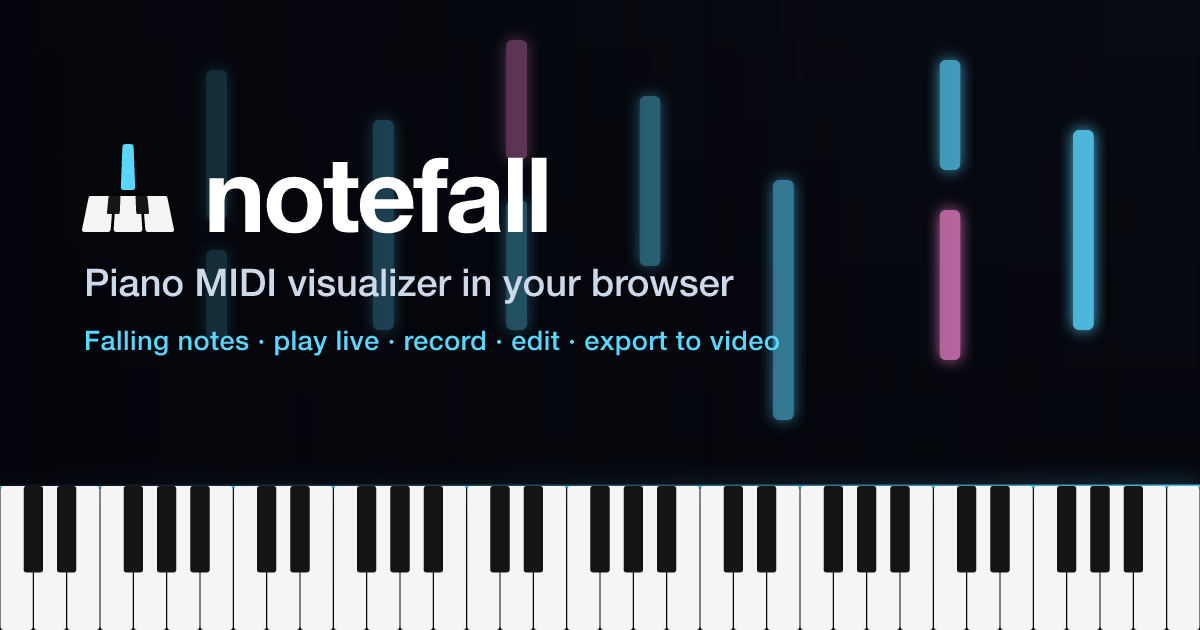
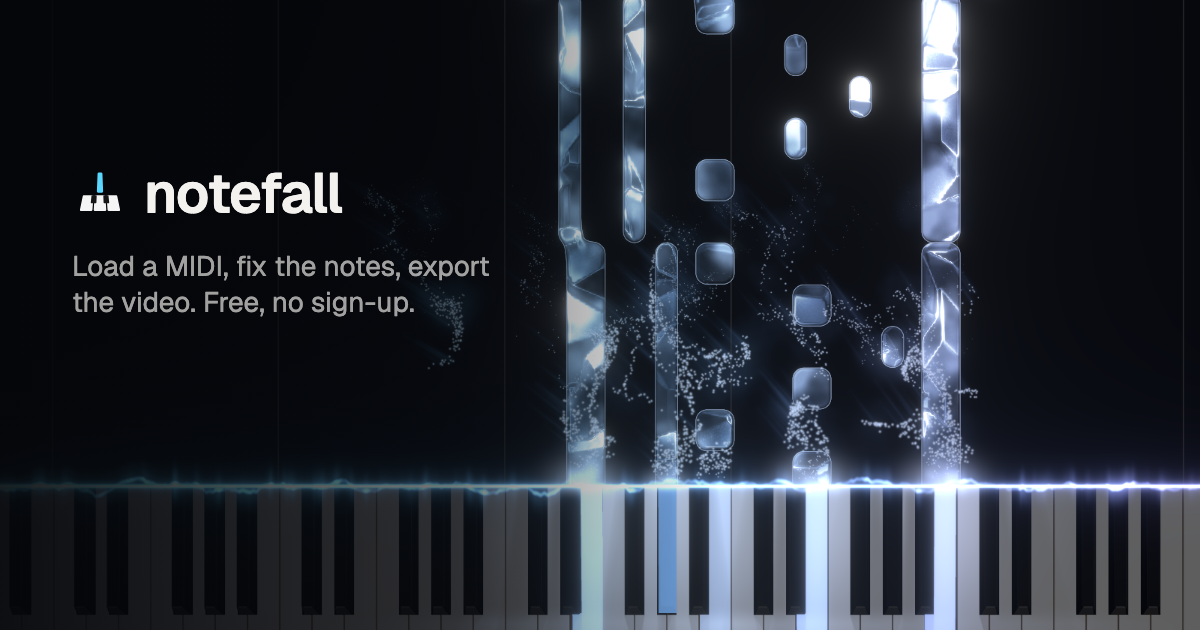
feat: new OGP image and copy, sharper blue backdrop for the fallback screens, chrome steps aside while tuning in Customize

diff --git a/index.html b/index.html
@@ -9,7 +9,7 @@
     <title>notefall — Piano MIDI Visualizer in Your Browser</title>
     <meta
       name="description"
-      content="A free browser-based piano visualizer. Watch MIDI notes fall onto a 3D 88-key keyboard, play live, record, edit on the canvas, and export to video. All client-side — nothing is uploaded."
+      content="A free browser-based piano visualizer. Load a MIDI, fix the notes right on the falling-notes view, and export a piano video. Play live or record from a MIDI keyboard. Free, no sign-up, and your files never leave your browser."
     />
     <meta
       name="keywords"
@@ -25,7 +25,7 @@
     <meta property="og:title" content="notefall — Piano MIDI Visualizer in Your Browser" />
     <meta
       property="og:description"
-      content="Watch MIDI notes fall onto a 3D 88-key keyboard, play live, record, edit on the canvas, and export to video. All client-side — nothing is uploaded."
+      content="Load a MIDI, fix the notes right on the falling-notes view, and export a piano video. Play live or record from a MIDI keyboard. Free, no sign-up, and your files never leave your browser."
     />
     <meta property="og:url" content="https://notefall.app/" />
     <meta property="og:image" content="https://notefall.app/og-image.png" />
@@ -33,7 +33,7 @@
     <meta property="og:image:height" content="630" />
     <meta
       property="og:image:alt"
-      content="notefall — cyan MIDI notes falling onto an 88-key piano keyboard"
+      content="notefall: glassy blue notes falling onto a piano keyboard, with the line “Load a MIDI, fix the notes, export the video. Free, no sign-up.”"
     />
     <meta property="og:locale" content="en_US" />
     <meta property="og:locale:alternate" content="ja_JP" />
@@ -43,12 +43,12 @@
     <meta name="twitter:title" content="notefall — Piano MIDI Visualizer in Your Browser" />
     <meta
       name="twitter:description"
-      content="Watch MIDI notes fall onto a 3D 88-key keyboard, play live, record, edit on the canvas, and export to video. All client-side."
+      content="Load a MIDI, fix the notes right on the falling-notes view, and export a piano video. Play live or record from a MIDI keyboard. Free, no sign-up, and your files never leave your browser."
     />
     <meta name="twitter:image" content="https://notefall.app/og-image.png" />
     <meta
       name="twitter:image:alt"
-      content="notefall — cyan MIDI notes falling onto an 88-key piano keyboard"
+      content="notefall: glassy blue notes falling onto a piano keyboard, with the line “Load a MIDI, fix the notes, export the video. Free, no sign-up.”"
     />
 
     <!-- Structured data -->

diff --git a/src/ui/shell/idle.ts b/src/ui/shell/idle.ts
@@ -13,6 +13,9 @@ type IdleState = {
   hidden: boolean
   /** Reasons to stay visible (an open popover, a menu). Set/clear by key. */
   holds: ReadonlySet<string>
+  /** The pointer is over the Customize panel: the chrome steps aside so the picture can be judged. */
+  overPanel: boolean
+  setOverPanel: (v: boolean) => void
   setHidden: (v: boolean) => void
   hold: (key: string, on: boolean) => void
 }
@@ -20,6 +23,10 @@ type IdleState = {
 export const useIdle = create<IdleState>((set, get) => ({
   hidden: false,
   holds: new Set(),
+  overPanel: false,
+  setOverPanel: (overPanel) => {
+    if (get().overPanel !== overPanel) set({ overPanel })
+  },
   setHidden: (hidden) => {
     if (get().hidden !== hidden) set({ hidden })
   },
@@ -31,8 +38,12 @@ export const useIdle = create<IdleState>((set, get) => ({
   },
 }))
 
-/** True while the chrome should be faded out (playing, idle, nothing holding it open). */
-export const useChromeHidden = (): boolean => useIdle((s) => s.hidden && s.holds.size === 0)
+/**
+ * True while the chrome (islands, pill) should be faded out: playing + idle with nothing holding it
+ * open, or the pointer is over the Customize panel (playing or paused; it comes back on leaving).
+ * Only the idle case hides the cursor (Viewport).
+ */
+export const useChromeHidden = (): boolean => useIdle((s) => (s.hidden && s.holds.size === 0) || s.overPanel)
 
 /** Mounted once (Layout): runs the idle timer. */
 export function IdleDriver() {

diff --git a/src/ui/Inspector.tsx b/src/ui/Inspector.tsx
@@ -28,6 +28,7 @@ import { useBarColors, useEffectiveLook } from './look/useLookState'
 import { VelocityCurveEditor } from './VelocityCurveEditor'
 import { Button, Icon, IconButton, Panel, GEOMETRY, usePresence } from './kit'
 import { useShell } from './shell/uiState'
+import { useIdle } from './shell/idle'
 import { useCustomTexture } from '../notes/customTexture'
 import { CAMERA_LIMITS } from '../scene/cameraLimits'
 import {
@@ -1196,6 +1197,8 @@ export function Inspector() {
 }
 
 function LookPanel({ leaving }: { leaving: boolean }) {
+  // Closing the panel under the pointer must not leave the chrome hidden.
+  useEffect(() => () => useIdle.getState().setOverPanel(false), [])
   const { t } = useTranslation('inspector')
   const reset = useStore((st) => st.resetSettings)
   const keyframeTargeted = useStore((st) => st.editingKeyframeTime !== null)
@@ -1226,6 +1229,8 @@ function LookPanel({ leaving }: { leaving: boolean }) {
         ref={panelRef}
         aria-label={t('panel.title')}
         className={clsx('fixed z-20 nf-enter-right', leaving && 'nf-leaving')}
+        onPointerEnter={(e) => e.pointerType === 'mouse' && useIdle.getState().setOverPanel(true)}
+        onPointerLeave={() => useIdle.getState().setOverPanel(false)}
         style={{
           right: GEOMETRY.EDGE,
           top: GEOMETRY.EDGE + GEOMETRY.BAR + GEOMETRY.GAP,

diff --git a/src/ui/shell/ScreenFrame.tsx b/src/ui/shell/ScreenFrame.tsx
@@ -1,6 +1,7 @@
 import type { ReactNode } from 'react'
 import { LogoMark } from '../kit'
-import backdropUrl from '../assets/backdrop.jpg'
+import backdropWide from '../assets/backdrop-wide.jpg'
+import backdropTall from '../assets/backdrop-tall.jpg'
 
 /**
  * Full-page screens shown instead of the app (unsupported device, no WebGL): a still of the
@@ -10,12 +11,16 @@ import backdropUrl from '../assets/backdrop.jpg'
 export function ScreenFrame({ title, children }: { title: ReactNode; children: ReactNode }) {
   return (
     <div className="relative h-full w-full overflow-auto bg-canvas text-ink">
-      <img
-        src={backdropUrl}
-        alt=""
-        aria-hidden
-        className="pointer-events-none fixed inset-0 h-full w-full object-cover object-[56%_50%]"
-      />
+      {/* A real render (the OGP colourway). Portrait screens get a tall crop so a phone shows it sharp. */}
+      <picture>
+        <source media="(orientation: portrait)" srcSet={backdropTall} />
+        <img
+          src={backdropWide}
+          alt=""
+          aria-hidden
+          className="pointer-events-none fixed inset-0 h-full w-full object-cover object-[50%_45%]"
+        />
+      </picture>
       {/* darken toward the card so text reads over bright notes */}
       <div
         aria-hidden

diff --git a/CLAUDE.md b/CLAUDE.md
@@ -219,7 +219,7 @@ Full-bleed canvas with floating glass surfaces (design system: `_local/redesign/
                  ( transport pill: ⏮ ⟲ ▶ ⟳ time scrub │ speed vol … │ Customize Timeline )
 ```
 
-Islands sit 16 px from the edges, the pill 20 px from the bottom; the Customize panel docks right (top 80, bottom 100, 344 wide); the Timeline floats above the pill and stops left of the Customize panel; toasts (`kit/Toast`, one at a time) sit above the pill. While playing, the islands and pill fade after 2 s without pointer movement (`shell/idle.ts`). Fullscreen fullscreens the app root (`shell/fullscreen.ts`), so the chrome comes along; `UNSAFE_PortalProvider` in Layout keeps react-aria overlays inside it.
+Islands sit 16 px from the edges, the pill 20 px from the bottom; the Customize panel docks right (top 80, bottom 100, 344 wide); the Timeline floats above the pill and stops left of the Customize panel; toasts (`kit/Toast`, one at a time) sit above the pill. While playing, the islands and pill fade after 2 s without pointer movement (`shell/idle.ts`); they also step aside while the mouse is over the Customize panel (playing or paused), so the picture can be judged while tuning. Fullscreen fullscreens the app root (`shell/fullscreen.ts`), so the chrome comes along; `UNSAFE_PortalProvider` in Layout keeps react-aria overlays inside it.
 
 **Inspector** = the Customize panel (`ui/Inspector.tsx`, parts in `ui/controls.tsx`; open state `useShell.lookOpen`, toggled from the pill): five tabs (Notes / Effects / Keyboard / Scene / Sound, remembered in localStorage); each tab is a stack of `Section` cards whose header carries the feature's on/off switch (`enabledKey`; off = body closed) and sticks while scrolling; everyday rows first, the rest behind a `Detail` disclosure. Search spans every tab (matches grouped under the tab name). Effects' colour is always the same select (`FollowColorRows`: follow notes | solid; the hit line adds its own gradient). While a keyframe is targeted, rows whose key a keyframe can't hold (`isAnimatableKey` false) carry the line "Can't change over time. Applies to the whole song." (`scopeKey` on the row; Bound rows pass their key). Switching Material alone also brings in that material family's lights (`lightsForMaterialSwitch`). Design notes: `_local/INSPECTOR_DESIGN.md`.
 
